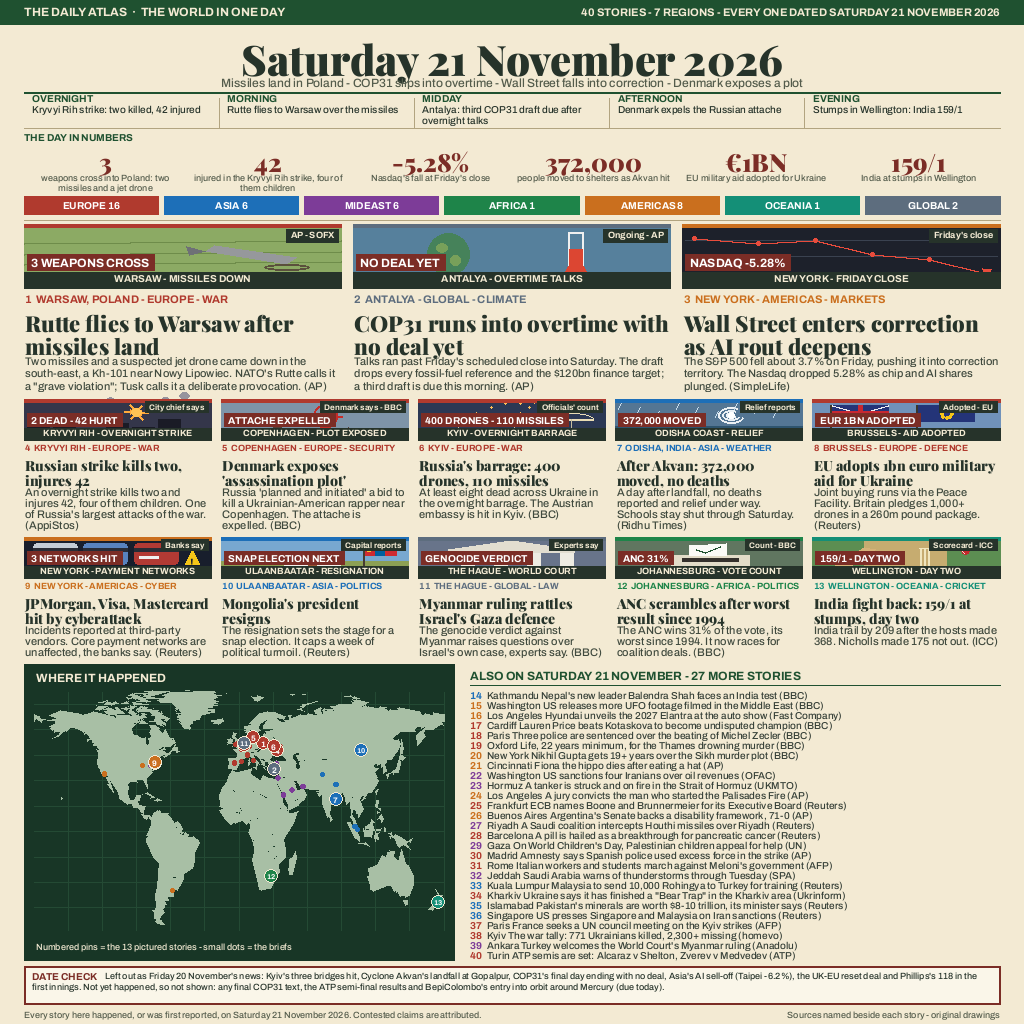
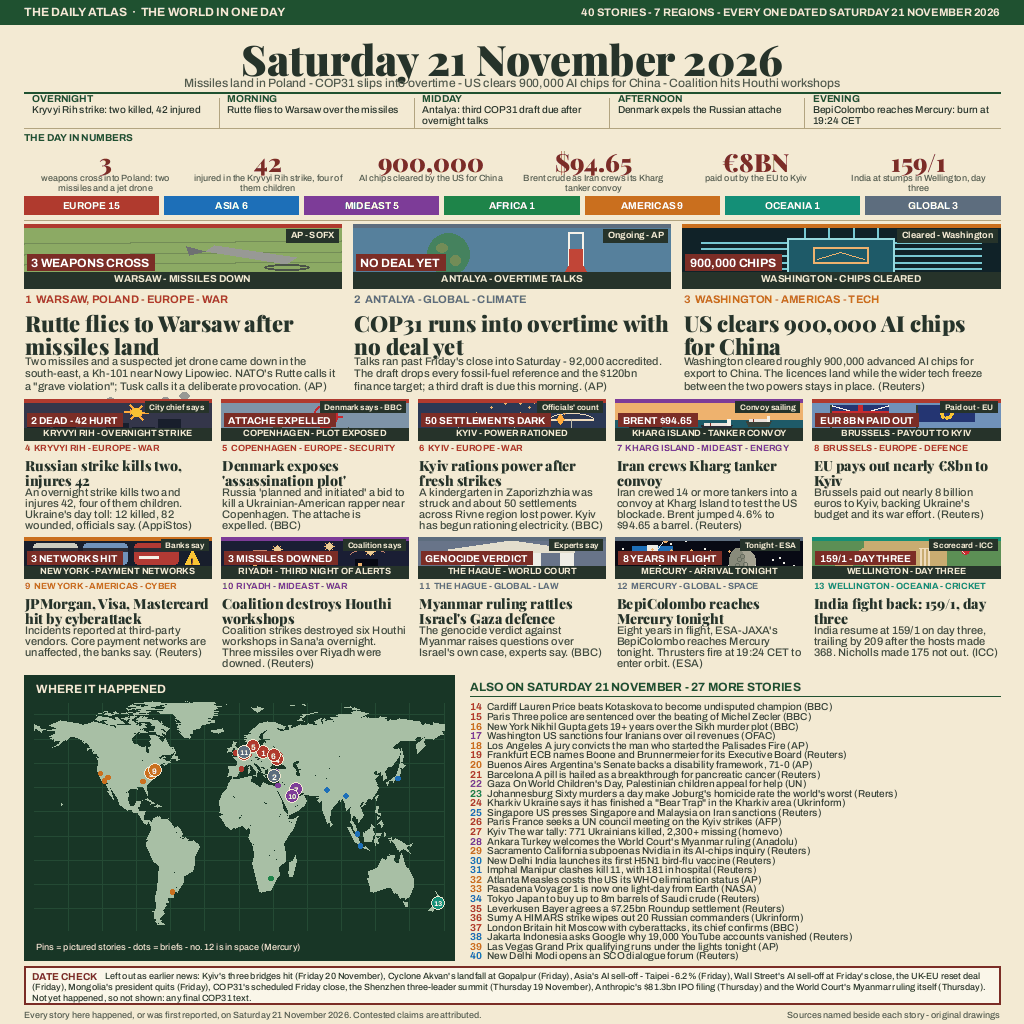
Add files via upload

diff --git a/draw.py b/draw.py
@@ -55,21 +55,21 @@ def AM(size):   # Archivo Medium — decks, body
 NUMBERS = [
     ("3",        "weapons cross into Poland: two missiles and a jet drone"),
     ("42",       "injured in the Kryvyi Rih strike, four of them children"),
-    ("-5.28%",   "Nasdaq's fall at Friday's close"),
-    ("372,000",  "people moved to shelters as Akvan hit"),
-    ("€1BN",     "EU military aid adopted for Ukraine"),
-    ("159/1",    "India at stumps in Wellington"),
+    ("900,000",  "AI chips cleared by the US for China"),
+    ("$94.65",   "Brent crude as Iran crews its Kharg tanker convoy"),
+    ("€8BN",     "paid out by the EU to Kyiv"),
+    ("159/1",    "India at stumps in Wellington, day three"),
 ]
 TIMELINE = [
     ("OVERNIGHT", "Kryvyi Rih strike: two killed, 42 injured"),
     ("MORNING",   "Rutte flies to Warsaw over the missiles"),
     ("MIDDAY",    "Antalya: third COP31 draft due after overnight talks"),
     ("AFTERNOON", "Denmark expels the Russian attache"),
-    ("EVENING",   "Stumps in Wellington: India 159/1"),
+    ("EVENING",   "BepiColombo reaches Mercury: burn at 19:24 CET"),
 ]
 REGION_COUNTS = [
-    ("EUROPE", 16), ("ASIA", 6), ("MIDEAST", 6), ("AFRICA", 1),
-    ("AMERICAS", 8), ("OCEANIA", 1), ("GLOBAL", 2),
+    ("EUROPE", 15), ("ASIA", 6), ("MIDEAST", 5), ("AFRICA", 1),
+    ("AMERICAS", 9), ("OCEANIA", 1), ("GLOBAL", 3),
 ]
 
 # ---- pool data: the 13 pictured stories ----
@@ -83,17 +83,17 @@ CARDS = [
       caption="WARSAW - MISSILES DOWN", lon=21.0, lat=52.2, scene="field"),
  dict(no=2, place="ANTALYA", region="GLOBAL", topic="CLIMATE",
       headline="COP31 runs into overtime with no deal yet",
-      deck="Talks ran past Friday's scheduled close into Saturday. The draft drops every fossil-fuel reference and the $120bn finance target; a third draft is due this morning. (AP)",
+      deck="Talks ran past Friday's close into Saturday - 92,000 accredited. The draft drops every fossil-fuel reference and the $120bn finance target; a third draft is due this morning. (AP)",
       tag="Ongoing - AP", label="NO DEAL YET",
       caption="ANTALYA - OVERTIME TALKS", lon=30.7, lat=36.9, scene="cop"),
- dict(no=3, place="NEW YORK", region="AMERICAS", topic="MARKETS",
-      headline="Wall Street enters correction as AI rout deepens",
-      deck="The S&P 500 fell about 3.7% on Friday, pushing it into correction territory. The Nasdaq dropped 5.28% as chip and AI shares plunged. (SimpleLife)",
-      tag="Friday's close", label="NASDAQ -5.28%",
-      caption="NEW YORK - FRIDAY CLOSE", lon=-74.0, lat=40.7, scene="markets"),
+ dict(no=3, place="WASHINGTON", region="AMERICAS", topic="TECH",
+      headline="US clears 900,000 AI chips for China",
+      deck="Washington cleared roughly 900,000 advanced AI chips for export to China. The licences land while the wider tech freeze between the two powers stays in place. (Reuters)",
+      tag="Cleared - Washington", label="900,000 CHIPS",
+      caption="WASHINGTON - CHIPS CLEARED", lon=-77.0, lat=38.9, scene="chip"),
  dict(no=4, place="KRYVYI RIH", region="EUROPE", topic="WAR",
       headline="Russian strike kills two, injures 42",
-      deck="An overnight strike kills two and injures 42, four of them children. One of Russia's largest attacks of the war. (AppiStos)",
+      deck="An overnight strike kills two and injures 42, four of them children. Ukraine's day toll: 12 killed, 82 wounded, officials say. (AppiStos)",
       tag="City chief says", label="2 DEAD - 42 HURT",
       caption="KRYVYI RIH - OVERNIGHT STRIKE", lon=33.4, lat=47.9, scene="blast"),
  dict(no=5, place="COPENHAGEN", region="EUROPE", topic="SECURITY",
@@ -102,84 +102,85 @@ CARDS = [
       tag="Denmark says - BBC", label="ATTACHE EXPELLED",
       caption="COPENHAGEN - PLOT EXPOSED", lon=12.6, lat=55.7, scene="target"),
  dict(no=6, place="KYIV", region="EUROPE", topic="WAR",
-      headline="Russia's barrage: 400 drones, 110 missiles",
-      deck="At least eight dead across Ukraine in the overnight barrage. The Austrian embassy is hit in Kyiv. (BBC)",
-      tag="Officials' count", label="400 DRONES - 110 MISSILES",
-      caption="KYIV - OVERNIGHT BARRAGE", lon=30.5, lat=50.4, scene="kyiv"),
- dict(no=7, place="ODISHA, INDIA", region="ASIA", topic="WEATHER",
-      headline="After Akvan: 372,000 moved, no deaths",
-      deck="A day after landfall, no deaths reported and relief under way. Schools stay shut through Saturday. (Ridhu Times)",
-      tag="Relief reports", label="372,000 MOVED",
-      caption="ODISHA COAST - RELIEF", lon=84.9, lat=19.3, scene="cyclone"),
+      headline="Kyiv rations power after fresh strikes",
+      deck="A kindergarten in Zaporizhzhia was struck and about 50 settlements across Rivne region lost power. Kyiv has begun rationing electricity. (BBC)",
+      tag="Officials' count", label="50 SETTLEMENTS DARK",
+      caption="KYIV - POWER RATIONED", lon=30.5, lat=50.4, scene="kyiv"),
+ dict(no=7, place="KHARG ISLAND", region="MIDEAST", topic="ENERGY",
+      headline="Iran crews Kharg tanker convoy",
+      deck="Iran crewed 14 or more tankers into a convoy at Kharg Island to test the US blockade. Brent jumped 4.6% to $94.65 a barrel. (Reuters)",
+      tag="Convoy sailing", label="BRENT $94.65",
+      caption="KHARG ISLAND - TANKER CONVOY", lon=50.3, lat=29.2, scene="tanker"),
  dict(no=8, place="BRUSSELS", region="EUROPE", topic="DEFENCE",
-      headline="EU adopts 1bn euro military aid for Ukraine",
-      deck="Joint buying runs via the Peace Facility. Britain pledges 1,000+ drones in a 260m pound package. (Reuters)",
-      tag="Adopted - EU", label="EUR 1BN ADOPTED",
-      caption="BRUSSELS - AID ADOPTED", lon=4.3, lat=50.8, scene="flags"),
+      headline="EU pays out nearly €8bn to Kyiv",
+      deck="Brussels paid out nearly 8 billion euros to Kyiv, backing Ukraine's budget and its war effort. (Reuters)",
+      tag="Paid out - EU", label="EUR 8BN PAID OUT",
+      caption="BRUSSELS - PAYOUT TO KYIV", lon=4.3, lat=50.8, scene="flags"),
  dict(no=9, place="NEW YORK", region="AMERICAS", topic="CYBER",
       headline="JPMorgan, Visa, Mastercard hit by cyberattack",
       deck="Incidents reported at third-party vendors. Core payment networks are unaffected, the banks say. (Reuters)",
       tag="Banks say", label="3 NETWORKS HIT",
       caption="NEW YORK - PAYMENT NETWORKS", lon=-73.9, lat=40.8, scene="cyber"),
- dict(no=10, place="ULAANBAATAR", region="ASIA", topic="POLITICS",
-      headline="Mongolia's president resigns",
-      deck="The resignation sets the stage for a snap election. It caps a week of political turmoil. (Reuters)",
-      tag="Capital reports", label="SNAP ELECTION NEXT",
-      caption="ULAANBAATAR - RESIGNATION", lon=106.9, lat=47.9, scene="steppe"),
+ dict(no=10, place="RIYADH", region="MIDEAST", topic="WAR",
+      headline="Coalition destroys Houthi workshops",
+      deck="Coalition strikes destroyed six Houthi workshops in Sana'a overnight. Three missiles over Riyadh were downed. (Reuters)",
+      tag="Coalition says", label="3 MISSILES DOWNED",
+      caption="RIYADH - THIRD NIGHT OF ALERTS", lon=46.7, lat=24.6, scene="intercept"),
  dict(no=11, place="THE HAGUE", region="GLOBAL", topic="LAW",
       headline="Myanmar ruling rattles Israel's Gaza defence",
       deck="The genocide verdict against Myanmar raises questions over Israel's own case, experts say. (BBC)",
       tag="Experts say", label="GENOCIDE VERDICT",
       caption="THE HAGUE - WORLD COURT", lon=4.3, lat=52.1, scene="court"),
- dict(no=12, place="JOHANNESBURG", region="AFRICA", topic="POLITICS",
-      headline="ANC scrambles after worst result since 1994",
-      deck="The ANC wins 31% of the vote, its worst since 1994. It now races for coalition deals. (BBC)",
-      tag="Count - BBC", label="ANC 31%",
-      caption="JOHANNESBURG - VOTE COUNT", lon=28.0, lat=-26.2, scene="ballot"),
+ dict(no=12, place="MERCURY", region="GLOBAL", topic="SPACE",
+      headline="BepiColombo reaches Mercury tonight",
+      deck="Eight years in flight, ESA-JAXA's BepiColombo reaches Mercury tonight. Thrusters fire at 19:24 CET to enter orbit. (ESA)",
+      tag="Tonight - ESA", label="8 YEARS IN FLIGHT",
+      caption="MERCURY - ARRIVAL TONIGHT", lon=None, lat=None, scene="mercury"),
  dict(no=13, place="WELLINGTON", region="OCEANIA", topic="CRICKET",
-      headline="India fight back: 159/1 at stumps, day two",
-      deck="India trail by 209 after the hosts made 368. Nicholls made 175 not out. (ICC)",
-      tag="Scorecard - ICC", label="159/1 - DAY TWO",
-      caption="WELLINGTON - DAY TWO", lon=174.8, lat=-41.3, scene="cricket"),
+      headline="India fight back: 159/1, day three",
+      deck="India resume at 159/1 on day three, trailing by 209 after the hosts made 368. Nicholls made 175 not out. (ICC)",
+      tag="Scorecard - ICC", label="159/1 - DAY THREE",
+      caption="WELLINGTON - DAY THREE", lon=174.8, lat=-41.3, scene="cricket"),
 ]
 
 # ---- pool data: briefs 14-40 (text verbatim, source in parens) ----
 # region is used only for the colour of the brief's dot on the map.
 BRIEFS = [
- (14, "Kathmandu Nepal's new leader Balendra Shah faces an India test (BBC)", "ASIA", 85.3, 27.7),
- (15, "Washington US releases more UFO footage filmed in the Middle East (BBC)", "AMERICAS", -77.0, 38.9),
- (16, "Los Angeles Hyundai unveils the 2027 Elantra at the auto show (Fast Company)", "AMERICAS", -118.2, 34.1),
- (17, "Cardiff Lauren Price beats Kotaskova to become undisputed champion (BBC)", "EUROPE", -3.2, 51.5),
- (18, "Paris Three police are sentenced over the beating of Michel Zecler (BBC)", "EUROPE", 2.4, 48.9),
- (19, "Oxford Life, 22 years minimum, for the Thames drowning murder (BBC)", "EUROPE", -1.3, 51.8),
- (20, "New York Nikhil Gupta gets 19+ years over the Sikh murder plot (BBC)", "AMERICAS", -74.0, 40.7),
- (21, "Cincinnati Fiona the hippo dies after eating a hat (AP)", "AMERICAS", -84.5, 39.1),
- (22, "Washington US sanctions four Iranians over oil revenues (OFAC)", "MIDEAST", -77.1, 38.8),
- (23, "Hormuz A tanker is struck and on fire in the Strait of Hormuz (UKMTO)", "MIDEAST", 56.3, 26.6),
- (24, "Los Angeles A jury convicts the man who started the Palisades Fire (AP)", "AMERICAS", -118.3, 34.0),
- (25, "Frankfurt ECB names Boone and Brunnermeier for its Executive Board (Reuters)", "EUROPE", 8.7, 50.1),
- (26, "Buenos Aires Argentina's Senate backs a disability framework, 71-0 (AP)", "AMERICAS", -58.4, -34.6),
- (27, "Riyadh A Saudi coalition intercepts Houthi missiles over Riyadh (Reuters)", "MIDEAST", 46.7, 24.6),
- (28, "Barcelona A pill is hailed as a breakthrough for pancreatic cancer (Reuters)", "EUROPE", 2.2, 41.4),
- (29, "Gaza On World Children's Day, Palestinian children appeal for help (UN)", "MIDEAST", 34.3, 31.5),
- (30, "Madrid Amnesty says Spanish police used excess force in the strike (AP)", "EUROPE", -3.7, 40.4),
- (31, "Rome Italian workers and students march against Meloni's government (AFP)", "EUROPE", 12.5, 41.9),
- (32, "Jeddah Saudi Arabia warns of thunderstorms through Tuesday (SPA)", "MIDEAST", 39.2, 21.5),
- (33, "Kuala Lumpur Malaysia to send 10,000 Rohingya to Turkey for training (Reuters)", "ASIA", 101.7, 3.1),
- (34, "Kharkiv Ukraine says it has finished a \"Bear Trap\" in the Kharkiv area (Ukrinform)", "EUROPE", 36.2, 49.9),
- (35, "Islamabad Pakistan's minerals are worth $8-10 trillion, its minister says (Reuters)", "ASIA", 73.1, 33.7),
- (36, "Singapore US presses Singapore and Malaysia on Iran sanctions (Reuters)", "ASIA", 103.8, 1.35),
- (37, "Paris France seeks a UN council meeting on the Kyiv strikes (AFP)", "EUROPE", 2.3, 48.8),
- (38, "Kyiv The war tally: 771 Ukrainians killed, 2,300+ missing (homevo)", "EUROPE", 30.6, 50.5),
- (39, "Ankara Turkey welcomes the World Court's Myanmar ruling (Anadolu)", "MIDEAST", 32.9, 39.9),
- (40, "Turin ATP semis are set: Alcaraz v Shelton, Zverev v Medvedev (ATP)", "EUROPE", 7.7, 45.1),
+ (14, "Cardiff Lauren Price beats Kotaskova to become undisputed champion (BBC)", "EUROPE", -3.2, 51.5),
+ (15, "Paris Three police are sentenced over the beating of Michel Zecler (BBC)", "EUROPE", 2.4, 48.9),
+ (16, "New York Nikhil Gupta gets 19+ years over the Sikh murder plot (BBC)", "AMERICAS", -74.0, 40.7),
+ (17, "Washington US sanctions four Iranians over oil revenues (OFAC)", "MIDEAST", -77.1, 38.8),
+ (18, "Los Angeles A jury convicts the man who started the Palisades Fire (AP)", "AMERICAS", -118.3, 34.0),
+ (19, "Frankfurt ECB names Boone and Brunnermeier for its Executive Board (Reuters)", "EUROPE", 8.7, 50.1),
+ (20, "Buenos Aires Argentina's Senate backs a disability framework, 71-0 (AP)", "AMERICAS", -58.4, -34.6),
+ (21, "Barcelona A pill is hailed as a breakthrough for pancreatic cancer (Reuters)", "EUROPE", 2.2, 41.4),
+ (22, "Gaza On World Children's Day, Palestinian children appeal for help (UN)", "MIDEAST", 34.3, 31.5),
+ (23, "Johannesburg Sixty murders a day make Joburg's homicide rate the world's worst (Reuters)", "AFRICA", 28.0, -26.2),
+ (24, "Kharkiv Ukraine says it has finished a \"Bear Trap\" in the Kharkiv area (Ukrinform)", "EUROPE", 36.2, 49.9),
+ (25, "Singapore US presses Singapore and Malaysia on Iran sanctions (Reuters)", "ASIA", 103.8, 1.35),
+ (26, "Paris France seeks a UN council meeting on the Kyiv strikes (AFP)", "EUROPE", 2.3, 48.8),
+ (27, "Kyiv The war tally: 771 Ukrainians killed, 2,300+ missing (homevo)", "EUROPE", 30.6, 50.5),
+ (28, "Ankara Turkey welcomes the World Court's Myanmar ruling (Anadolu)", "MIDEAST", 32.9, 39.9),
+ (29, "Sacramento California subpoenas Nvidia in its AI-chips inquiry (Reuters)", "AMERICAS", -121.5, 38.6),
+ (30, "New Delhi India launches its first H5N1 bird-flu vaccine (Reuters)", "ASIA", 77.2, 28.6),
+ (31, "Imphal Manipur clashes kill 11, with 181 in hospital (Reuters)", "ASIA", 93.9, 24.8),
+ (32, "Atlanta Measles costs the US its WHO elimination status (AP)", "AMERICAS", -84.4, 33.7),
+ (33, "Pasadena Voyager 1 is now one light-day from Earth (NASA)", "AMERICAS", -118.1, 34.1),
+ (34, "Tokyo Japan to buy up to 8m barrels of Saudi crude (Reuters)", "ASIA", 139.7, 35.7),
+ (35, "Leverkusen Bayer agrees a $7.25bn Roundup settlement (Reuters)", "EUROPE", 7.0, 51.0),
+ (36, "Sumy A HIMARS strike wipes out 20 Russian commanders (Ukrinform)", "EUROPE", 34.8, 50.9),
+ (37, "London Britain hit Moscow with cyberattacks, its chief confirms (BBC)", "EUROPE", -0.1, 51.5),
+ (38, "Jakarta Indonesia asks Google why 19,000 YouTube accounts vanished (Reuters)", "ASIA", 106.8, -6.2),
+ (39, "Las Vegas Grand Prix qualifying runs under the lights tonight (AP)", "AMERICAS", -115.1, 36.1),
+ (40, "New Delhi Modi opens an SCO dialogue forum (Reuters)", "ASIA", 77.2, 28.6),
 ]
 
-DATE_CHECK = ("Left out as Friday 20 November's news: Kyiv's three bridges hit, Cyclone Akvan's "
- "landfall at Gopalpur, COP31's final day ending with no deal, Asia's AI sell-off (Taipei "
- "-6.2%), the UK-EU reset deal and Phillips's 118 in the first innings. Not yet happened, "
- "so not shown: any final COP31 text, the ATP semi-final results and BepiColombo's entry "
- "into orbit around Mercury (due today).")
+DATE_CHECK = ("Left out as earlier news: Kyiv's three bridges hit (Friday 20 November), Cyclone Akvan's "
+ "landfall at Gopalpur (Friday), Asia's AI sell-off - Taipei -6.2% (Friday), Wall Street's AI sell-off "
+ "at Friday's close, the UK-EU reset deal (Friday), Mongolia's president quits (Friday), COP31's "
+ "scheduled Friday close, the Shenzhen three-leader summit (Thursday 19 November), Anthropic's "
+ "$81.3bn IPO filing (Thursday) and the World Court's Myanmar ruling itself (Thursday). Not yet "
+ "happened, so not shown: any final COP31 text.")
 FOOTER_L = "Every story here happened, or was first reported, on Saturday 21 November 2026. Contested claims are attributed."
 FOOTER_R = "Sources named beside each story - original drawings"
 
@@ -441,12 +442,92 @@ def sc_steppe(d, x, y, w, h):
         d.rectangle([fx + 2 + i * fw // 3, fy, fx + 2 + (i + 1) * fw // 3, fy + fh], fill=col)
     d.rectangle([fx + 4, fy + 3, fx + 7, fy + 8], fill=(250, 200, 40))
 
+def sc_chip(d, x, y, w, h):
+    d.rectangle([x, y, x + w, y + h], fill=(16, 34, 40))
+    cw_, ch_ = int(w * 0.34), int(h * 0.56)  # the chip package
+    cx, cy = x + (w - cw_) // 2, y + (h - ch_) // 2
+    for i in range(5):  # pins left and right
+        py_ = cy + int(ch_ * (0.12 + 0.19 * i))
+        d.line([x + int(w * 0.06), py_, cx, py_], fill=(120, 200, 210), width=2)
+        d.line([cx + cw_, py_, x + w - int(w * 0.06), py_], fill=(120, 200, 210), width=2)
+    for i in range(4):  # pins top and bottom
+        px_ = cx + int(cw_ * (0.16 + 0.23 * i))
+        d.line([px_, y + int(h * 0.06), px_, cy], fill=(120, 200, 210), width=2)
+        d.line([px_, cy + ch_, px_, y + h - int(h * 0.06)], fill=(120, 200, 210), width=2)
+    d.rectangle([cx, cy, cx + cw_, cy + ch_], fill=(30, 90, 104), outline=(150, 220, 228), width=2)
+    iw, ih = int(cw_ * 0.52), int(ch_ * 0.48)
+    ix, iy = cx + (cw_ - iw) // 2, cy + (ch_ - ih) // 2
+    d.rectangle([ix, iy, ix + iw, iy + ih], outline=(240, 200, 90), width=2)
+    d.line([ix + 4, iy + ih - 4, ix + iw // 2, iy + 5], fill=(240, 200, 90), width=1)
+    d.line([ix + iw // 2, iy + 5, ix + iw - 4, iy + ih - 4], fill=(240, 200, 90), width=1)
+
+def sc_tanker(d, x, y, w, h):
+    d.rectangle([x, y, x + w, y + int(h * 0.52)], fill=(238, 178, 110))  # dusk sky
+    d.rectangle([x, y + int(h * 0.52), x + w, y + h], fill=(38, 84, 110))  # sea
+    d.ellipse([x + int(w * 0.80), y + int(h * 0.08), x + int(w * 0.92), y + int(h * 0.08) + int(h * 0.22)], fill=(250, 214, 130))
+    def tanker(tx, ty, s, col):
+        hl = int(64 * s); hh = int(13 * s)
+        d.polygon([(tx, ty), (tx + hl, ty), (tx + hl - int(8 * s), ty + hh), (tx + int(6 * s), ty + hh)], fill=col)
+        d.rectangle([tx + int(8 * s), ty - int(6 * s), tx + hl - int(14 * s), ty], fill=(222, 226, 228))
+        d.rectangle([tx + hl - int(12 * s), ty - int(13 * s), tx + hl - int(6 * s), ty], fill=(240, 240, 238))
+        d.line([tx + int(20 * s), ty - int(6 * s), tx + int(20 * s), ty], fill=(120, 40, 36), width=max(1, int(2 * s)))
+    s = max(0.6, h / 95)
+    tanker(x + int(w * 0.06), y + int(h * 0.56), s, (30, 34, 40))
+    tanker(x + int(w * 0.46), y + int(h * 0.64), s * 0.82, (44, 48, 54))
+    tanker(x + int(w * 0.70), y + int(h * 0.54), s * 0.66, (56, 60, 66))
+    for i in range(6):  # wave ticks
+        wx = x + int(w * (0.05 + 0.16 * i)); wy = y + int(h * (0.86 if i % 2 else 0.80))
+        d.line([wx, wy, wx + int(w * 0.07), wy], fill=(120, 170, 196), width=1)
+
+def sc_intercept(d, x, y, w, h):
+    d.rectangle([x, y, x + w, y + h], fill=(26, 30, 52))
+    for i, bh in enumerate((0.30, 0.44, 0.26, 0.38, 0.30, 0.48, 0.28)):  # night skyline
+        bx = x + int(w * (0.02 + 0.14 * i)); bw = int(w * 0.12)
+        d.rectangle([bx, y + h - int(h * bh), bx + bw, y + h], fill=(12, 14, 26))
+        d.rectangle([bx + 3, y + h - int(h * bh) + 4, bx + 6, y + h - int(h * bh) + 7], fill=(250, 200, 90))
+    import math
+    for k, (fx, fy) in enumerate(((0.30, 0.30), (0.58, 0.22), (0.80, 0.36))):  # intercept bursts
+        cx, cy = x + int(w * fx), y + int(h * fy)
+        for a in range(8):
+            ang = 2 * math.pi * a / 8
+            r = int(h * 0.13)
+            d.line([cx, cy, cx + r * math.cos(ang), cy + r * 0.8 * math.sin(ang)], fill=(255, 190, 90), width=1)
+        d.ellipse([cx - 3, cy - 3, cx + 3, cy + 3], fill=(255, 220, 140))
+    for sx, sy in ((0.10, 0.62), (0.42, 0.70), (0.68, 0.60)):  # rising trails
+        d.arc([x + int(w * sx), y + int(h * sy) - int(h * 0.30), x + int(w * (sx + 0.22)), y + int(h * sy) + int(h * 0.10)], 200, 320, fill=(200, 120, 90), width=1)
+
+def sc_mercury(d, x, y, w, h):
+    d.rectangle([x, y, x + w, y + h], fill=(8, 10, 20))
+    import random
+    rng = random.Random(21)
+    for _ in range(46):  # star field (fixed seed: deterministic)
+        sx, sy = x + rng.randint(2, max(2, int(w) - 3)), y + rng.randint(2, max(2, int(h) - 3))
+        d.ellipse([sx, sy, sx + 1.4, sy + 1.4], fill=(230, 234, 244))
+    pr = int(h * 0.34)  # Mercury: grey cratered disc, lower right
+    pcx, pcy = x + int(w * 0.68), y + int(h * 0.60)
+    d.ellipse([pcx - pr, pcy - pr, pcx + pr, pcy + pr], fill=(168, 160, 148))
+    d.ellipse([pcx - pr, pcy - pr, pcx + int(pr * 0.2), pcy + pr], fill=(140, 132, 120))
+    for dx, dy, r in ((-0.3, -0.2, 0.16), (0.25, 0.3, 0.12), (0.05, -0.45, 0.09), (-0.45, 0.35, 0.10)):
+        cx, cy = pcx + int(pr * dx), pcy + int(pr * dy); rr = max(2, int(pr * r))
+        d.ellipse([cx - rr, cy - rr, cx + rr, cy + rr], outline=(110, 102, 92), width=1)
+    ox, oy = x + int(w * 0.20), y + int(h * 0.30)  # the orbiter: bus + two wings
+    d.rectangle([ox - 5, oy - 4, ox + 5, oy + 4], fill=(226, 228, 232))
+    d.rectangle([ox - 20, oy - 3, ox - 6, oy + 3], fill=(52, 84, 168))
+    d.rectangle([ox + 6, oy - 3, ox + 20, oy + 3], fill=(52, 84, 168))
+    d.line([ox + 5, oy, ox + 12, oy - 9], fill=(226, 228, 232), width=1)
+    d.ellipse([ox + 11, oy - 11, ox + 15, oy - 7], fill=(240, 200, 90))
+    for t in range(0, 9):  # dashed approach path toward the planet
+        px_ = ox + (pcx - pr - ox) * t / 8; py_ = oy + (pcy - 10 - oy) * t / 8
+        if t % 2 == 0:
+            d.ellipse([px_ - 1, py_ - 1, px_ + 1, py_ + 1], fill=(250, 200, 90))
+
 SCENES = {"kyiv": sc_kyiv, "cyclone": sc_cyclone, "markets": sc_markets,
           "flags": sc_flags, "cop": sc_cop, "field": sc_field, "iraq": sc_iraq,
           "strike": sc_strike, "bars": sc_bars, "court": sc_court,
           "oil": sc_oil, "ballot": sc_ballot, "cricket": sc_cricket,
           "blast": sc_blast, "target": sc_target, "cyber": sc_cyber,
-          "steppe": sc_steppe}
+          "steppe": sc_steppe, "chip": sc_chip, "tanker": sc_tanker,
+          "intercept": sc_intercept, "mercury": sc_mercury}
 
 # ---- strip furniture: accent rule, source tag (top-right), data label
 # chip (bottom-left), caption band (bottom edge). Zones never overlap. ----
@@ -495,7 +576,7 @@ def draw_top(d):
     right = "40 STORIES - 7 REGIONS - EVERY ONE DATED SATURDAY 21 NOVEMBER 2026"
     d.text((W - M - tw(d, right, AB(11)), 6), right, font=AB(11), fill=PARCH)
     ctext(d, W / 2, 30, "Saturday 21 November 2026", PF(42), INK)
-    ctext(d, W / 2, 76, "Missiles land in Poland - COP31 slips into overtime - Wall Street falls into correction - Denmark exposes a plot", AM(12), (84, 92, 76))
+    ctext(d, W / 2, 76, "Missiles land in Poland - COP31 slips into overtime - US clears 900,000 AI chips for China - Coalition hits Houthi workshops", AM(12), (84, 92, 76))
     d.line([M, 92, W - M, 92], fill=FOREST, width=2)
     # UTC timeline strip
     cw5 = CW / 5
@@ -568,14 +649,16 @@ def draw_map(d, top, bottom=960):
         if lon is not None:
             cx, cy = px(lon), py(lat)
             d.ellipse([cx - 2.2, cy - 2.2, cx + 2.2, cy + 2.2], fill=REGIONS[region])
-    for card in CARDS:  # numbered pins for the 13 pictured stories
+    for card in CARDS:  # numbered pins for the pictured stories (12 is in space)
+        if card["lon"] is None:
+            continue
         cx, cy = px(card["lon"]), py(card["lat"])
         r = 6.5
         d.ellipse([cx - r, cy - r, cx + r, cy + r], fill=REGIONS[card["region"]], outline=PARCH, width=1)
         s = str(card["no"])
         f = AB(7 if len(s) > 1 else 8)
         d.text((cx - tw(d, s, f) / 2, cy - 4), s, font=f, fill=(255, 255, 255))
-    d.text((x0 + 12, bottom - 18), "Numbered pins = the 13 pictured stories - small dots = the briefs",
+    d.text((x0 + 12, bottom - 18), "Pins = pictured stories - dots = briefs - no. 12 is in space (Mercury)",
            font=AM(9), fill=PARCH)
 
 # ---- briefs column (bottom-right) ----
@@ -634,7 +717,11 @@ def build():
     draw_map(d, bottom_top)
     draw_bottom_bands(d)
     out = os.path.join(HERE, "entry.png")
-    img.save(out)
+    # Palette-quantize (no dither, flat-illustration palette) to win the
+    # byte tie-break against the 181-198 KB leaders without hurting the
+    # 300 px read: text edges stay on palette colours.
+    q = img.quantize(colors=256, method=Image.MEDIANCUT, dither=Image.Dither.NONE)
+    q.save(out, optimize=True)
     print("bottom_top:", bottom_top, "brief leading: %.2f" % lh)
     print("saved", out, os.path.getsize(out), "bytes")
 
